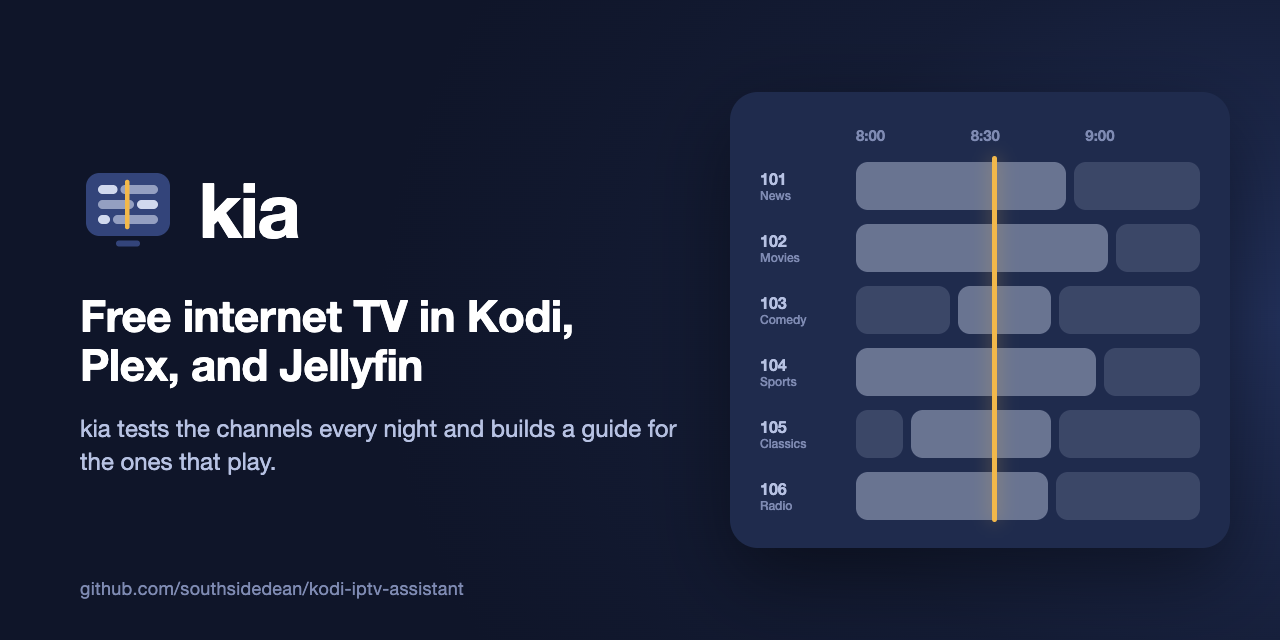
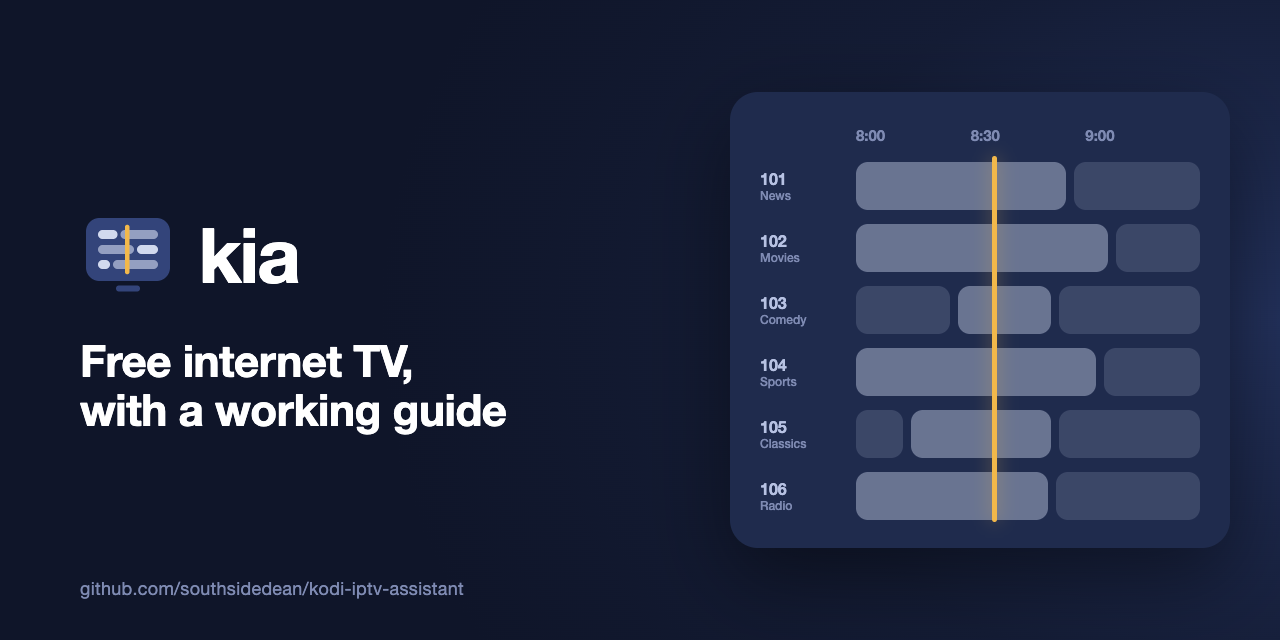
Headline only on the social preview: free internet TV, with a working guide

Changed region(s): [[0.0625, 0.25, 0.5312, 0.75]]

diff --git a/images/social-preview.html b/images/social-preview.html
@@ -17,8 +17,7 @@
   .brand { display: flex; align-items: center; gap: 22px; margin-bottom: 34px; }
   .brand svg { width: 96px; height: 96px; }
   .brand .kia { font-size: 76px; font-weight: 800; letter-spacing: -2px; color: #fff; }
-  h1 { margin: 0 0 22px; font-size: 44px; line-height: 1.12; font-weight: 700; letter-spacing: -0.5px; color: #fff; }
-  p { margin: 0; font-size: 24px; line-height: 1.4; color: #b7c2e3; }
+  h1 { margin: 0; font-size: 44px; line-height: 1.12; font-weight: 700; letter-spacing: -0.5px; color: #fff; }
   .repo { position: absolute; left: 80px; bottom: 40px; font-size: 18px; color: #7f8bb3; letter-spacing: 0.3px; }
 
   /* The guide: rows of shows, with the amber "now" line, echoing the logo. */
@@ -42,8 +41,7 @@
       <svg viewBox="0 0 64 64" aria-hidden="true"><rect x="4" y="8" width="56" height="42" rx="9" fill="#33447a"/><rect x="12" y="16" width="13" height="6" rx="3" fill="#e3e9fb" opacity="0.9"/><rect x="27" y="16" width="25" height="6" rx="3" fill="#e3e9fb" opacity="0.55"/><rect x="12" y="26" width="24" height="6" rx="3" fill="#e3e9fb" opacity="0.55"/><rect x="38" y="26" width="14" height="6" rx="3" fill="#e3e9fb" opacity="0.9"/><rect x="12" y="36" width="8" height="6" rx="3" fill="#e3e9fb" opacity="0.9"/><rect x="22" y="36" width="30" height="6" rx="3" fill="#e3e9fb" opacity="0.55"/><rect x="30" y="12.5" width="3" height="33" rx="1.5" fill="#f2b84b"/><rect x="24" y="53" width="16" height="4" rx="2" fill="#33447a"/></svg>
       <span class="kia">kia</span>
     </div>
-    <h1>Free internet TV in Kodi, Plex, and Jellyfin</h1>
-    <p>kia tests the channels every night and builds a guide for the ones that play.</p>
+    <h1>Free internet TV,<br>with a working guide</h1>
   </div>
   <div class="repo">github.com/southsidedean/kodi-iptv-assistant</div>
 
